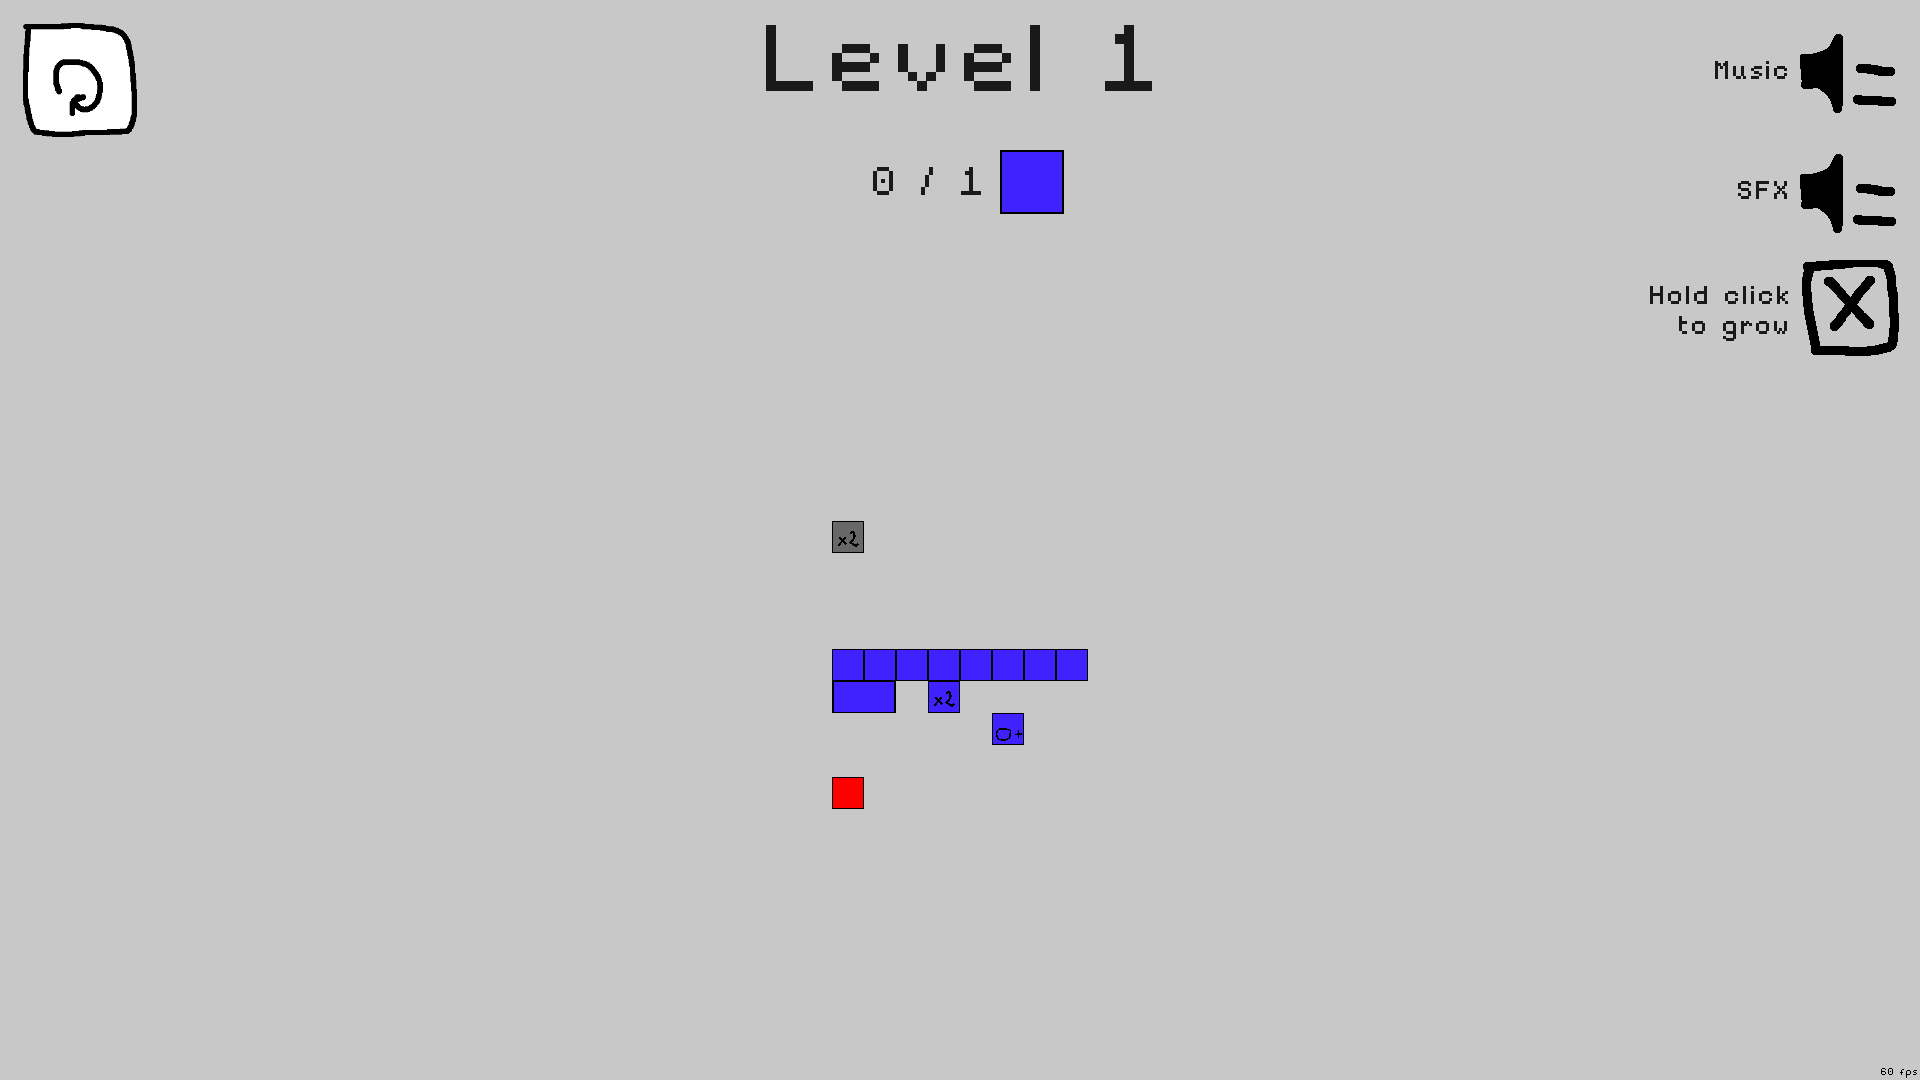
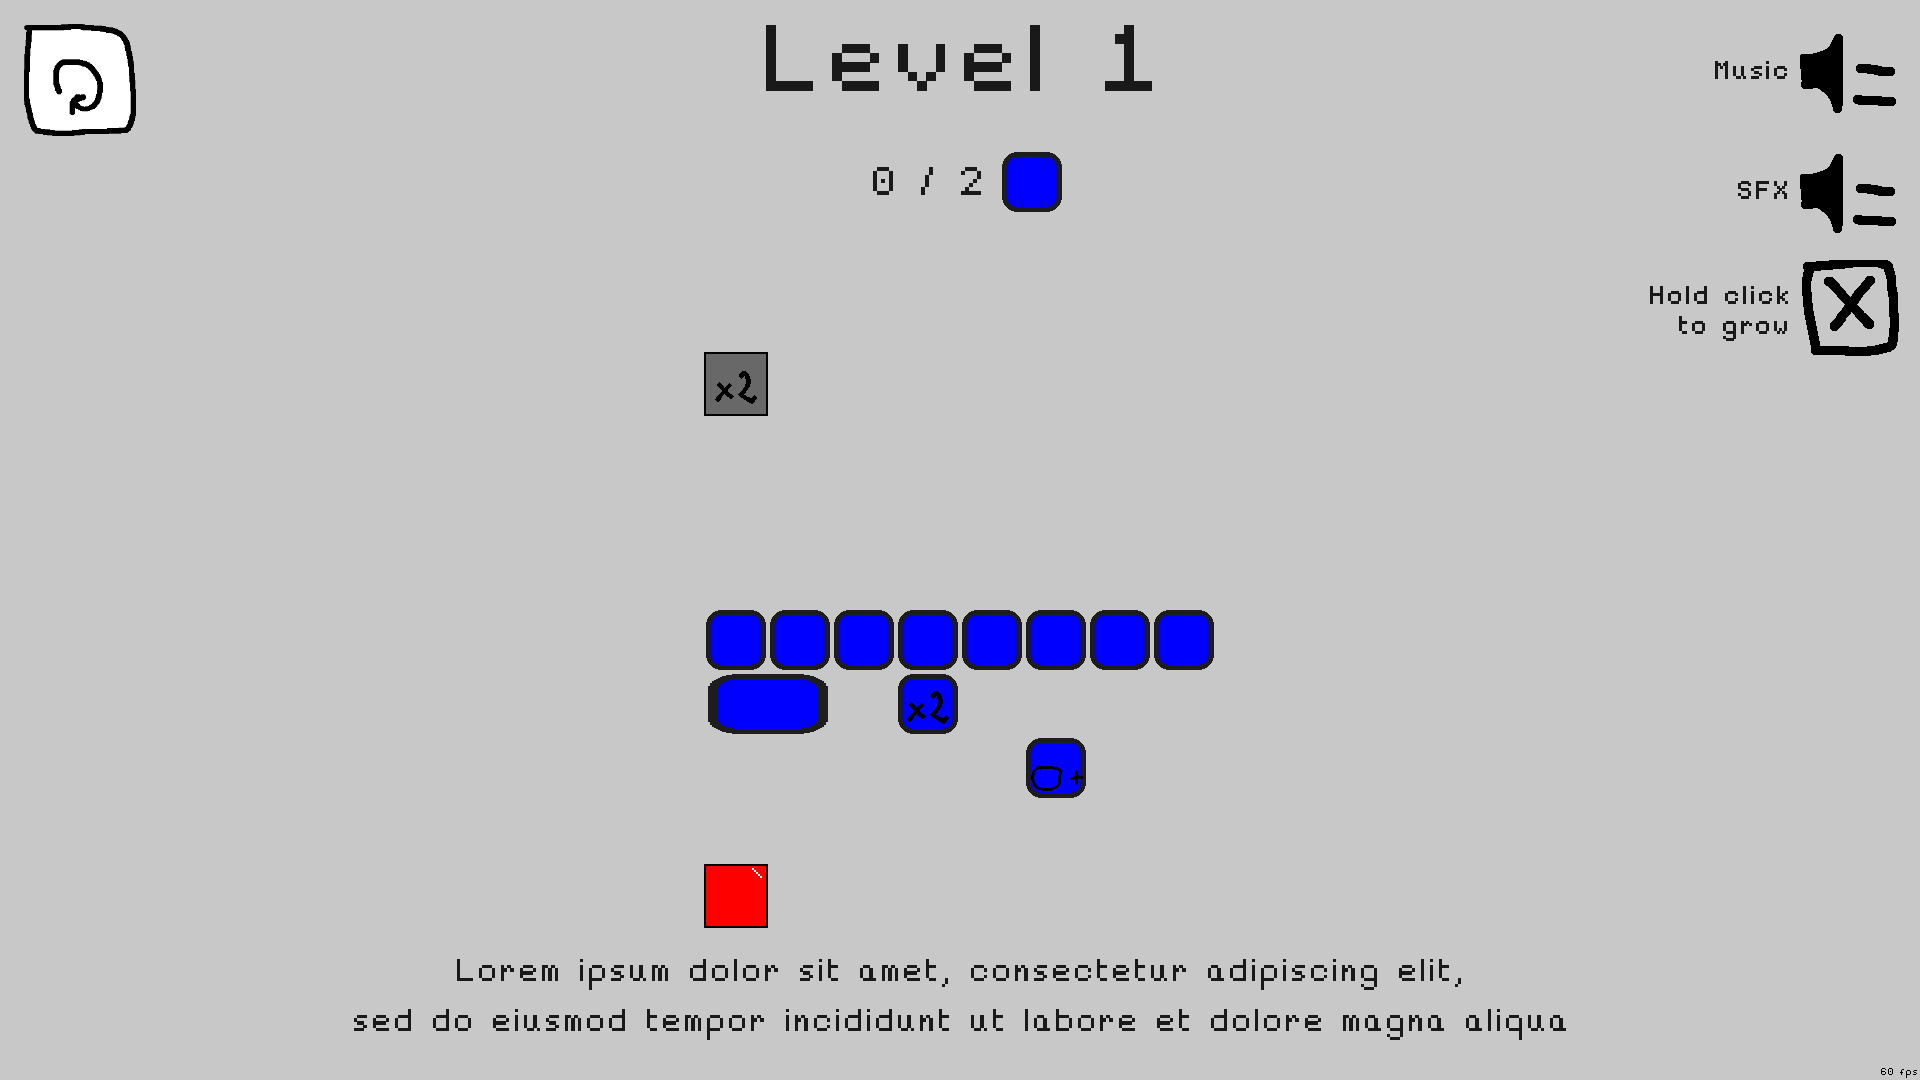
create sprite and animations for base cells

diff --git a/images.py b/images.py
@@ -1,96 +1,14 @@
-from typing import List, Union
-
 import pygame
 
 
 class Image:
-    """
-    A class to ease the use of Pygame's surfaces as images.
-    """
-
     @staticmethod
-    def __create_surface_from_path(file_path: str) -> pygame.Surface:
-        try:
-            return pygame.image.load(file_path)
-        except FileNotFoundError:
-            raise FileNotFoundError(f"File path '{file_path}' does not exist or is inaccessible.")
-
-    @staticmethod
-    def __check_mode_and_display():
-        if not pygame.display.get_init():
-            raise pygame.error("pygame.display.init() has not already been called.")
-
-        if not pygame.display.get_active():
-            raise pygame.error("pygame.display.set_mode() has not already been called.")
-
-    @staticmethod
-    def create(file_path: str) -> pygame.Surface:
-        """
-        Create an image from the specified path.
-
-        Parameters
-        ----------
-        file_path : str
-            Path of the image file.
-        """
-
-        Image.__check_mode_and_display()
-
-        return Image.__create_surface_from_path(file_path).convert_alpha()
-
-    @staticmethod
-    def create_no_alpha(file_path: str) -> pygame.Surface:
-        """
-        Create an image from the specified path with no alpha channel.
-
-        Parameters
-        ----------
-        file_path : str
-            Path of the image file.
-        """
-
-        Image.__check_mode_and_display()
-
-        return Image.__create_surface_from_path(file_path).convert()
-
-
-class Sprite:
-    """A class containing method to slice sprite sheet into list of surfaces."""
-
-    @staticmethod
-    def __get_surface(surface: Union[str, pygame.Surface]) -> pygame.Surface:
-        if type(surface) == str:
-            return Image.create(surface)
-        elif type(surface) == pygame.Surface:
-            return surface
-        else:
-            raise TypeError("The specified object was not a Surface or a string.")
-
-    @staticmethod
-    def slice_by_columns(
-            sprite_sheet: Union[str, pygame.Surface],
-            sprites_count: int
-    ) -> List[pygame.Surface]:
-        """
-        slice by columns the given sprite sheet into the specified number of surfaces.
-        Example : ABCD becomes [A, B, C, D].
-
-        Parameters
-        ----------
-        sprite_sheet : str or pygame.Surface
-            Either a string containing the path to the sheet
-            or the sheet directly as a surface.
-        sprites_count : int
-            Number of sprites to slice.
-        """
-
-        sprite_sheet = Sprite.__get_surface(sprite_sheet)
-        width, height = sprite_sheet.get_size()
-        width = width // sprites_count
+    def slice_by_columns(sprite_sheet: pygame.Surface, width: int) -> list[pygame.Surface]:
+        height = sprite_sheet.get_height()
 
         sprites = list()
-        for i in range(sprites_count):
-            sprite = pygame.Surface((width, height))
+        for i in range(sprite_sheet.get_width() // width):
+            sprite = pygame.Surface((width, height), pygame.SRCALPHA)
             sprite.blit(
                 source=sprite_sheet,
                 dest=(0, 0),
@@ -101,36 +19,12 @@ class Sprite:
         return sprites
 
     @staticmethod
-    def slice_by_rows(
-            sprite_sheet: Union[str, pygame.Surface],
-            sprites_count: int
-    ) -> List[pygame.Surface]:
-        """
-        slice by rows the given sprite sheet into the specified number of surfaces.
-        Example :
-        A
-        B
-        C
-        D
-
-        becomes [A, B, C, D]
-
-        Parameters
-        ----------
-        sprite_sheet : str or pygame.Surface
-            Either a string containing the path to the sheet
-            or the sheet directly as a surface.
-        sprites_count : int
-            Number of sprites to slice.
-        """
-
-        sprite_sheet = Sprite.__get_surface(sprite_sheet)
-        width, height = sprite_sheet.get_size()
-        height = height // sprites_count
+    def slice_by_rows(sprite_sheet: pygame.Surface, height: int) -> list[pygame.Surface]:
+        width = sprite_sheet.get_width()
 
         sprites = list()
-        for i in range(sprites_count):
-            sprite = pygame.Surface((width, height))
+        for i in range(sprite_sheet.get_height() // height):
+            sprite = pygame.Surface((width, height), pygame.SRCALPHA)
             sprite.blit(
                 source=sprite_sheet,
                 dest=(0, 0),
@@ -141,70 +35,24 @@ class Sprite:
         return sprites
 
     @staticmethod
-    def __slice_vertically_then_horizontally(
-            sprite_sheet: Union[str, pygame.Surface],
-            sprites_count_width: int,
-            sprites_count_height: int
-    ) -> List[List[pygame.Surface]]:
-        """"""
-
-        sprites_rows = Sprite.slice_vertically(sprite_sheet, sprites_count_width)
+    def slice_vertically_then_horizontally(filename: str, width: int, height: int) -> list[pygame.Surface]:
+        sprite_sheet = pygame.image.load(filename)
+        sprites_rows = Image.slice_by_columns(sprite_sheet, height)
 
         sprites = list()
         for row in sprites_rows:
-            sprites.append(Sprite.slice_horizontally(row, sprites_count_height))
+            sprites.extend(Image.slice_by_rows(row, width))
 
         return sprites
 
     @staticmethod
-    def __slice_horizontally_then_vertically(
-            sprite_sheet: Union[str, pygame.Surface],
-            sprites_count_width: int,
-            sprites_count_height: int
-    ) -> List[List[pygame.Surface]]:
-        """"""
-
-        sprites_rows = Sprite.slice_horizontally(sprite_sheet, sprites_count_width)
+    def slice_horizontally_then_vertically(filename: str, width: int, height: int) -> list[pygame.Surface]:
+        sprite_sheet = pygame.image.load(filename)
+        sprites_rows = Image.slice_by_rows(sprite_sheet, height)
 
         sprites = list()
         for row in sprites_rows:
-            sprites.append(Sprite.slice_vertically(row, sprites_count_height))
+            sprites.extend(Image.slice_by_columns(row, width))
+        pygame.image.save(sprites[0], "test.png")
 
         return sprites
-
-    @staticmethod
-    def slice_both_ways(
-            sprite_sheet: Union[str, pygame.Surface],
-            sprites_count_width: int,
-            sprites_count_height: int,
-            by_rows_first: bool = True
-    ) -> List[List[pygame.Surface]]:
-        """
-        slice by rows and by columns the given sprite sheet into the specified number of surfaces.
-        The order is given by the 'by_rows' parameters.
-
-        Parameters
-        ----------
-        sprite_sheet : str or pygame.Surface
-            Either a string containing the path to the sheet,
-            or the sheet directly as a surface.
-        sprites_count_width : int
-            Number of sprites in each row.
-        sprites_count_height : int
-            Number of psrites in each column.
-        by_rows : bool, default = True
-            Indicates if the slice should be done first by rows (True)
-            or by columns (False).
-            Example :
-            ABCD
-            EFGH
-            IJKL
-
-            becomes [[A, B, C, D], [E, F, G, H], [I, J, K, L]] if by_rows_first is True
-            and [[A, E, I], [B, F, J], [C, G, K], [D, H, L]] if by_rows_first is False.
-        """
-
-        if by_rows_first:
-            return Sprite.__slice_vertically_then_horizontally(sprite_sheet, sprites_count_width, sprites_count_height)
-        else:
-            return Sprite.__slice_horizontally_then_vertically(sprite_sheet, sprites_count_width, sprites_count_height)

diff --git a/textures.py b/textures.py
@@ -3,6 +3,7 @@ from pygame.image import load
 from pygame.transform import scale_by
 
 from animation_manager import Animation, AnimationManager
+from images import Image
 from window import Scale
 
 CELL_TEXTURES: list[list[Animation]] = list()
@@ -78,20 +79,21 @@ def _load_textures(scale: Scale):
     CHECKBOXES = scale_list(CHECKBOXES, scale)
 
 
+def _get_animation(filename: str, width: int, height: int, total_duration: float, scale: Scale) -> Animation:
+    textures = Image.slice_horizontally_then_vertically(filename, width, height)
+    count = len(textures)
+    return Animation(
+        [scale_by(texture, scale.scale) for texture in textures],
+        [total_duration / count] * count
+    )
+
+
 def _load_cell_animations(scale: Scale):
     global CELL_TEXTURES, CELL_ANIMATOR
 
     base_cell_animations = [
-        Animation(
-            [load_scale("resources/textures/cells/base/0.png", scale),
-             load_scale("resources/textures/cells/base/1.png", scale)],
-            [0.5, 0.5]
-        ),
-        Animation(
-            [load_scale("resources/textures/cells/base/selected_0.png", scale),
-             load_scale("resources/textures/cells/base/selected_1.png", scale)],
-            [0.5, 0.5]
-        )
+        _get_animation("resources/textures/cells/base/base.png", 64, 64, 4, scale),
+        _get_animation("resources/textures/cells/base/base_selected.png", 64, 64, 4, scale)
     ]
 
     CELL_TEXTURES.append(base_cell_animations)

diff --git a/window.py b/window.py
@@ -103,7 +103,7 @@ class Window:
             pygame.display.set_caption(title)
 
         if icon_path != "":
-            icon = images.Image.create(icon_path)
+            icon = pygame.image.load(icon_path)
             pygame.display.set_icon(icon)
 
         return screen
